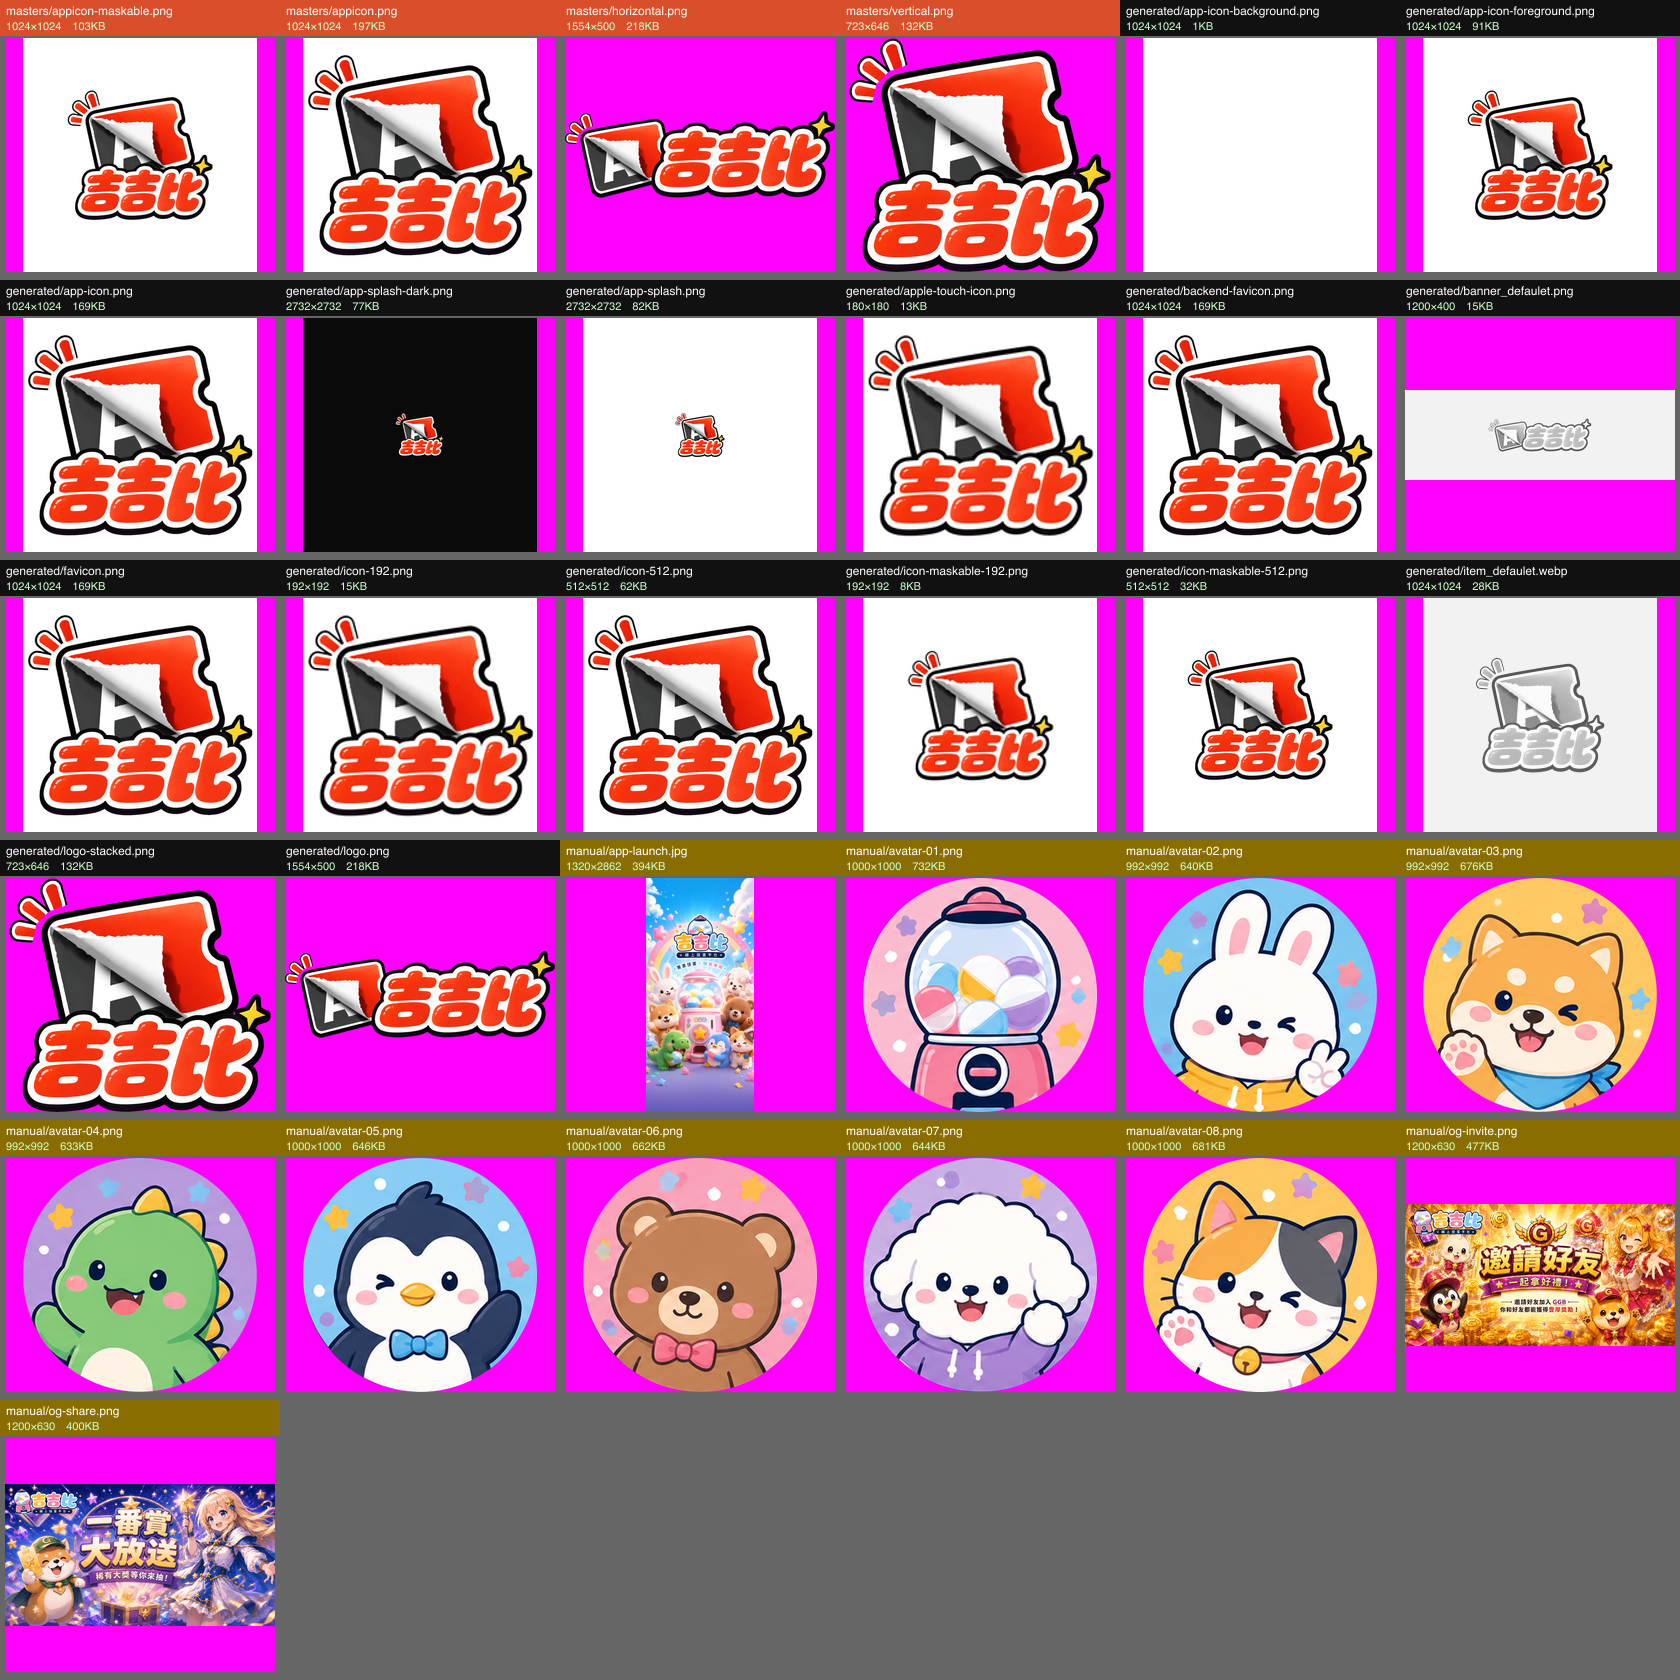
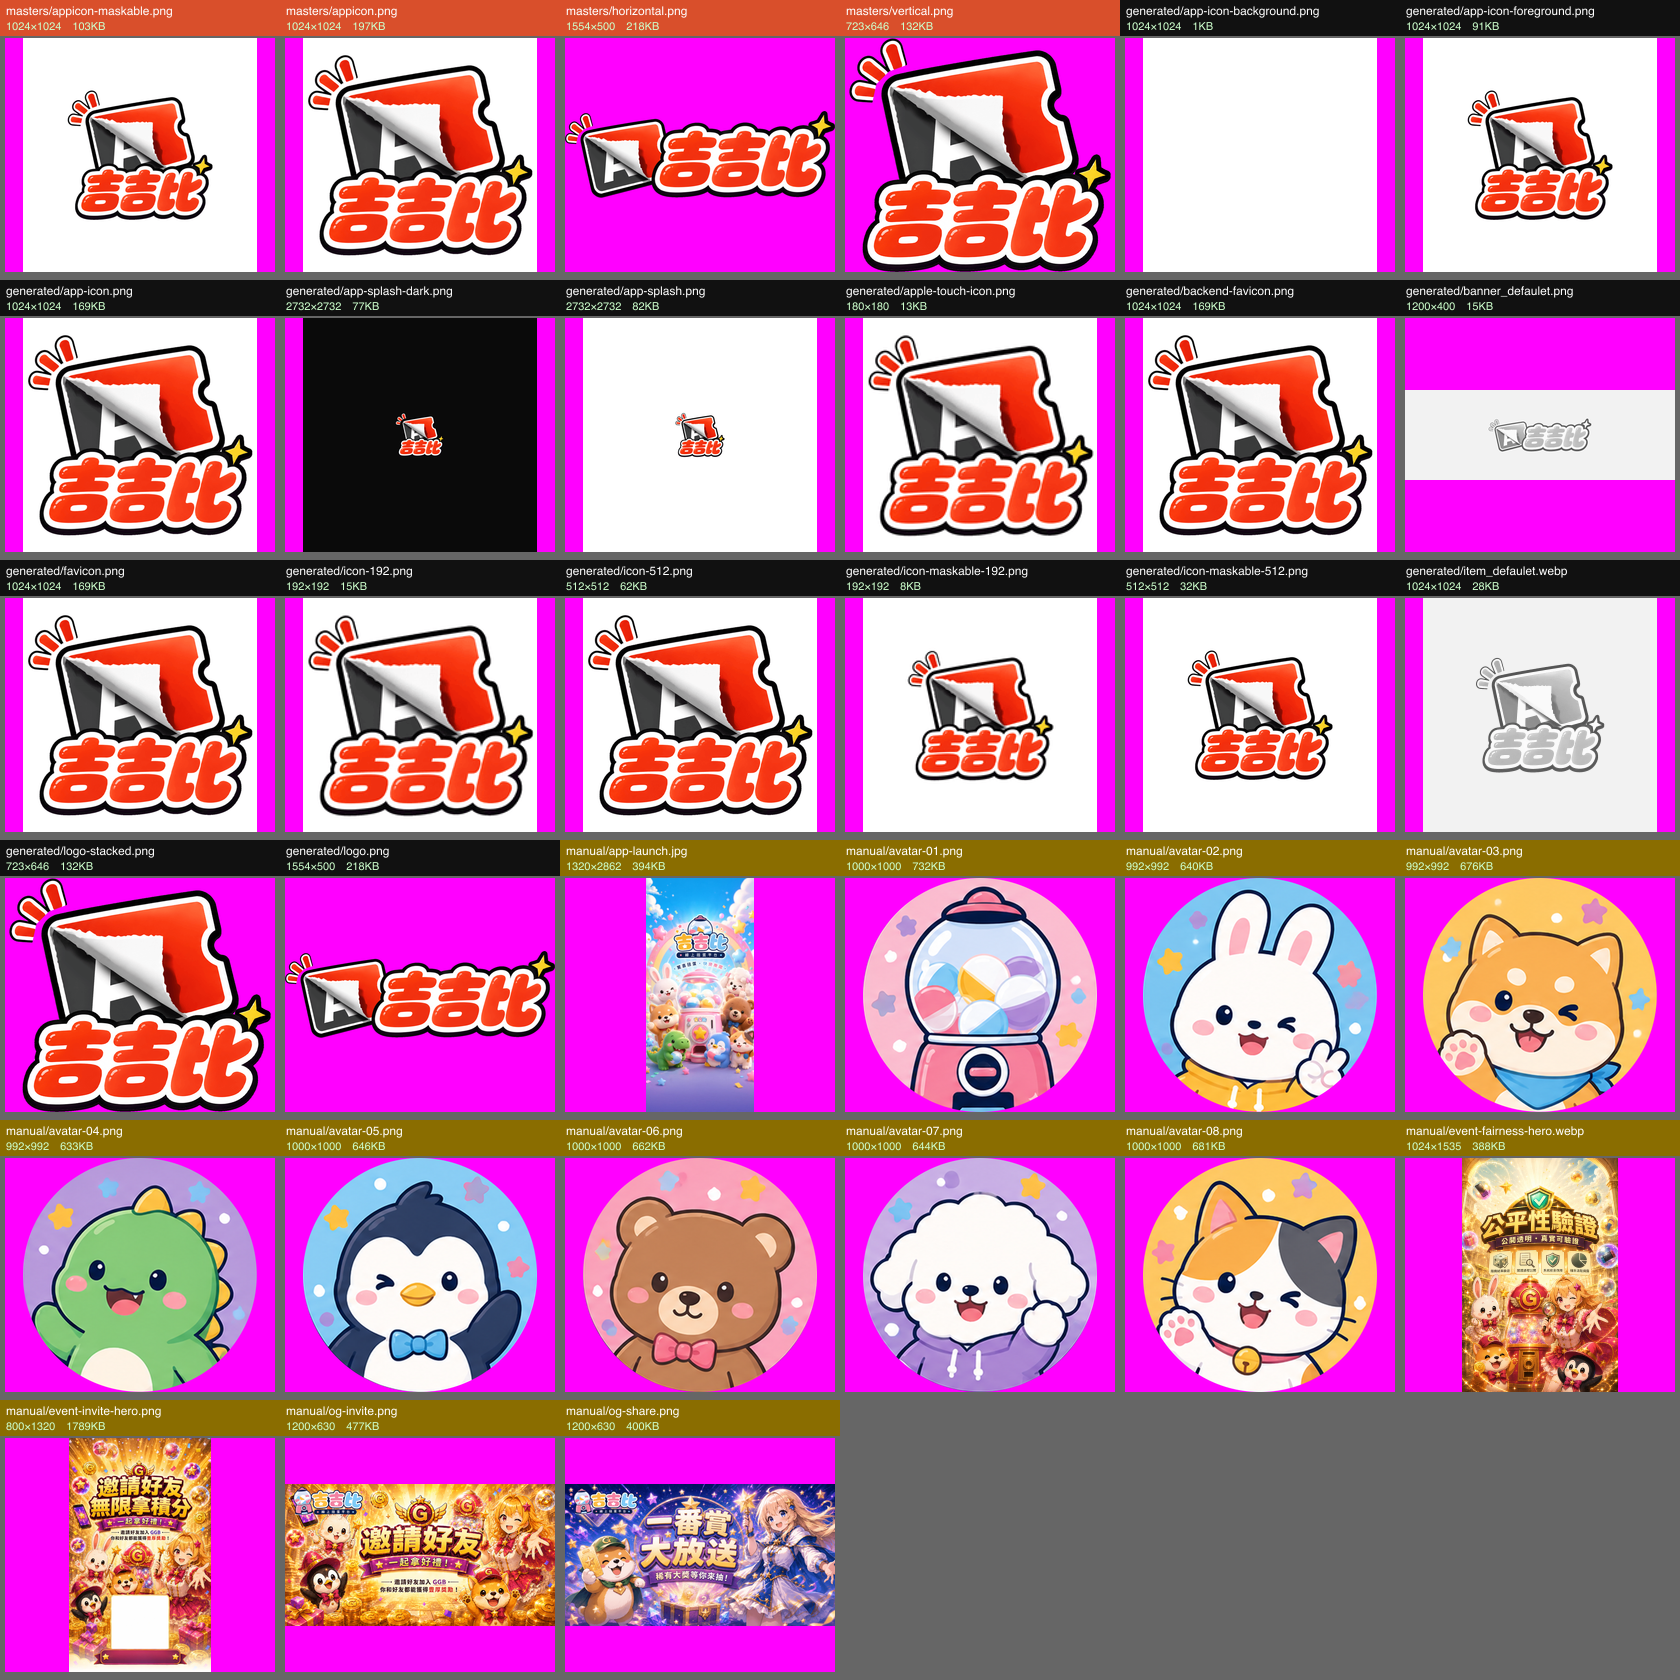
refactor(fairness): 公平性頁從活動頁模組移出改成程式碼常駐頁；兩張常駐頁 hero 進 brand/
老闆：公平性頁與邀請好友頁沒問題的話是永久的，不該待在「活動頁管理」裡，
要改就透過 Claude 改。

它確實不是檔期活動 —— 不會下架、不會換檔，內容是對玩家的公平性承諾，由 FAQ、
服務條款、退換貨與首頁底部警語列指過來。放在 CMS 裡的代價是到處要開特例：
後端刪除 API 回 403、後台列表隱藏刪除鍵、清全站資料要寫 WHERE slug <> 'fairness'。
三個特例養一頁永遠不會被編輯的內容。

作法是只換資料來源、不重寫版面：LpRenderer 加 preset 參數，給 slug 就照舊打 API、
給 preset 就吃程式碼裡的內容，所以視覺跟改之前一模一樣（已實機截圖確認）。

- 網址刻意不動（/events/fairness）。靜態路徑優先於 [slug]，且 Navbar 在 /events/
  底下會自己隱藏（LP 有自己的返回與分享列）。搬到 /fairness 要同時改 Navbar 的
  隱藏清單、處理那段 CMS 化之後就沒作用的 isFairnessPage 死碼，換來的只是網址好看
- 三張說明圖從 R2 搬回本機，常駐頁不該依賴 CMS 上傳出來的網址
- 三個特例全部移除，清資料改回 DELETE FROM events（migration 288 同步更新）
- DB 那筆刪掉（migration 635，PROD／STG 已套用）
- 刪掉 images/fairness/01–03.webp，程式碼 0 處、DB 0 處引用，594KB 死重

brand/manual/ 收進兩張常駐頁 hero。邀請那張用老闆放在 public/ 的 PNG 原檔當母版
（1.8MB，沒有程式引用，頁面吃的是 webp），移進 brand/manual/ 後由 sync 產 webp。
webp 品質改成可逐項指定：頭像顯示只有 40–100px，q80 夠用；滿版 hero 是大面積漸層
插畫，q80 看得出色帶，改 q88（實測離 PNG 原檔的色差比原本 repo 裡那張還小）。

Changed region(s): [[0.0, 0.8357, 0.5262, 1.0], [0.8357, 0.65, 1.0, 0.8357]]

diff --git a/frontend/app/events/fairness/content.tsx b/frontend/app/events/fairness/content.tsx
@@ -1,0 +1,109 @@
+'use client'
+
+import LpRenderer, { type LpPreset } from '@/components/lp/LpRenderer'
+import { asset } from '@/lib/asset'
+
+/**
+ * 抽獎公平性說明頁 —— 常駐頁，內容寫在程式碼裡，不進後台「活動頁管理」。
+ *
+ * 2026-08-28 之前這頁是後台活動頁模組的一筆資料（events.slug = 'fairness'）。
+ * 但它不是檔期活動：不會下架、不會換檔、內容是對玩家的公平性承諾，
+ * 由 FAQ、服務條款、退換貨三頁與首頁底部警語列指過來。放在 CMS 裡的代價是
+ * 到處要為它開特例 —— 後端刪除 API 回 403、後台列表隱藏刪除鍵、清全站資料的
+ * 腳本要寫 `WHERE slug <> 'fairness'`。三個特例養一頁永遠不會被編輯的內容。
+ *
+ * 改成程式碼之後：那三個特例全部拿掉，改動進 git 有版本可回溯，
+ * 清資料腳本直接 `DELETE FROM events` 不必留例外。要改內容就改這個檔案。
+ *
+ * 視覺完全沿用活動頁模組（`LpRenderer`），所以跟改之前長得一模一樣 ——
+ * 這裡換掉的只有「資料從哪來」，沒有重寫任何版面。
+ */
+const FAIRNESS: LpPreset = {
+  event: {
+    slug: 'fairness',
+    title: '抽獎公平性',
+    bg_color: '#0a0610',
+    accent_color: '#2ecc71',
+    theme_mode: 'dark',
+    hero_mode: 'dark',
+    is_active: true,
+    start_at: null,
+    end_at: null,
+    linked_category_id: null,
+  },
+  sections: [
+    {
+      type: 'hero',
+      sort_order: 0,
+      content: {
+        bare: true,
+        bg_image_url: asset('/images/fairness/hero2.webp'),
+        cta_text: '立即開抽',
+        cta_url: '/',
+      },
+    },
+    {
+      type: 'text',
+      sort_order: 1,
+      content: {
+        h2: '驗證碼是什麼',
+        body:
+          '把整檔的開獎表想成一份名單，驗證碼就是這份名單的**指紋**（技術上叫 SHA-256 雜湊）。\n\n' +
+          '它有兩個特性：**同一份名單永遠算出同一組指紋**；**名單只要改動一個字，指紋就會完全不同**。\n\n' +
+          '所以我們在**開賣時就先把指紋公布出來**，等於當眾把名單封進保險箱。這一檔結束後名單公開，' +
+          '你可以**自己拿去算一次** —— 算出來的指紋必須跟開賣那天公布的一模一樣。對得上，代表中間沒被動過；' +
+          '**對不上，代表我們改過東西，而且賴不掉**。',
+      },
+    },
+    {
+      type: 'steps',
+      sort_order: 2,
+      content: {
+        h2: '怎麼運作',
+        steps: [
+          { title: '開賣前先封存', description: '商品一上架，哪個號碼對到哪個獎就**全部排定**，同時公布驗證碼。' },
+          { title: '抽到的都有號碼', description: '每一件收進倉庫時都帶著它的號碼，**那就是你的收據**。' },
+          { title: '完抽後公開對照', description: '這一檔抽完，**開獎表整份公開**。用你的號碼去查，就知道當初排給你的是不是這件。' },
+        ],
+      },
+    },
+    {
+      type: 'gallery',
+      sort_order: 3,
+      content: {
+        h2: '在哪裡看',
+        items: [
+          { url: asset('/images/fairness/gallery-1.webp'), caption: '商品頁', media_type: 'image' },
+          { url: asset('/images/fairness/gallery-2.webp'), caption: '我的倉庫', media_type: 'image' },
+          { url: asset('/images/fairness/gallery-3.webp'), caption: '驗算頁', media_type: 'image' },
+        ],
+        callout: '販售中只看得到驗證碼，**完抽後同一個位置會變成完整的開獎表**。',
+      },
+    },
+    {
+      type: 'text',
+      sort_order: 4,
+      content: {
+        h2: '哪些玩法適用',
+        body:
+          '**一番賞、抽卡、自製賞**採用號碼封存，可以照上面的方式驗算。\n\n' +
+          '**轉蛋與盒玩沒有號碼** —— 它們每一抽都是當下獨立隨機，不存在「開賣前就排好」這回事，' +
+          '因此沒有可以事後比對的開獎表。',
+      },
+    },
+    {
+      type: 'cta',
+      sort_order: 5,
+      content: {
+        h2: '看完就去抽吧',
+        text: '去看看可以抽什麼',
+        url: '/',
+        subtitle: '抽到的東西可以申請寄送，也可以回收成 G 幣。',
+      },
+    },
+  ],
+}
+
+export default function FairnessContent() {
+  return <LpRenderer preset={FAIRNESS} />
+}

diff --git a/frontend/components/lp/LpRenderer.tsx b/frontend/components/lp/LpRenderer.tsx
@@ -58,6 +58,24 @@ interface Section {
   resolved?: { product: { id: number; name: string; type?: string } | null; prizes: Prize[] }
 }
 
+/**
+ * 把 preset 補成跟 API 回傳一樣的形狀。
+ *
+ * 下游有幾處拿 `section.id` 當 React key、`event.id` 做分享網址，
+ * 少了會是 undefined key（同型別區塊重複時 React 會警告並可能錯位重用 DOM）。
+ * 這裡用 slug + 索引補齊，preset 是靜態的，值穩定不會跳動。
+ */
+function normalizePreset(p: LpPreset): { event: EventData; sections: Section[] } {
+  return {
+    event: { ...p.event, id: p.event.id ?? `preset-${p.event.slug}` } as EventData,
+    sections: p.sections.map((s, i) => ({
+      ...s,
+      id: s.id ?? `${p.event.slug}-${i}`,
+      sort_order: s.sort_order ?? i,
+    })) as Section[],
+  }
+}
+
 const str = (v: unknown): string => (v as string) ?? ''
 const bool = (v: unknown): boolean => !!(v)
 
@@ -986,15 +1004,36 @@ function RelatedProductsSection({ products }: { products: RelProduct[] }) {
 
 // ─── Main ────────────────────────────────────────────────────────────────────
 
-export default function LpRenderer({ slug }: { slug: string }) {
+/** 從程式碼直接餵進來的頁面資料，給常駐頁用（見下方 `preset`） */
+export type LpPreset = {
+  event: Omit<EventData, 'id'> & { id?: string }
+  sections: Array<Omit<Section, 'id'> & { id?: string }>
+}
+
+/**
+ * 活動頁渲染器。
+ *
+ * 兩種資料來源：
+ *   - `slug`：從 `/api/events/<slug>` 讀，後台「活動頁管理」建的檔期活動走這條
+ *   - `preset`：直接把內容寫在程式碼裡，**常駐頁走這條**（例：抽獎公平性頁）
+ *
+ * 常駐頁為什麼不放後台：它不是檔期活動，不會下架，內容是對玩家的公平性承諾。
+ * 放在 CMS 裡要另外做「不可刪除」的特例（後端 403 + 列表隱藏刪除鍵），
+ * 清資料腳本也得為它開一個 `WHERE slug <> 'fairness'` 的例外 —— 為了一頁永遠不會
+ * 被編輯的內容，在三個地方留特例。寫成程式碼就沒有這些事，改動也留在 git 裡。
+ */
+export default function LpRenderer({ slug, preset }: { slug?: string; preset?: LpPreset }) {
   const router = useRouter()
-  const [data, setData] = useState<{ event: EventData; sections: Section[] } | null>(null)
+  const [data, setData] = useState<{ event: EventData; sections: Section[] } | null>(
+    preset ? normalizePreset(preset) : null
+  )
   const [notFound, setNotFound] = useState(false)
   const [showSticky, setShowSticky] = useState(false)
   const [relProducts, setRelProducts] = useState<RelProduct[]>([])
   const containerRef = useRef<HTMLDivElement>(null)
 
   useEffect(() => {
+    if (preset || !slug) return
     fetch(`/api/events/${slug}`)
       .then(r => { if (!r.ok) throw new Error(); return r.json() })
       .then(d => {
@@ -1007,7 +1046,7 @@ export default function LpRenderer({ slug }: { slug: string }) {
         }
       })
       .catch(() => setNotFound(true))
-  }, [slug])
+  }, [slug, preset])
 
   useEffect(() => {
     const el = containerRef.current

diff --git a/backend/app/api/admin/events/[id]/route.ts b/backend/app/api/admin/events/[id]/route.ts
@@ -41,12 +41,8 @@ export async function DELETE(req: NextRequest, { params }: { params: Promise<{ i
   const admin = await requireAdminSession()
   if (!admin) return NextResponse.json({ error: 'Unauthorized' }, { status: 401 })
   const { id } = await params
-  // 抽獎公平性活動頁（slug='fairness'）不可刪除 —— 它是常駐的公平性說明頁、
-  // 抽獎流程與清資料都依賴它存在（老闆 2026-08-21）
-  const { data: ev } = await getSupabaseAdmin().from('events').select('slug').eq('id', id).maybeSingle()
-  if (ev?.slug === 'fairness') {
-    return NextResponse.json({ error: '抽獎公平性頁為系統常駐頁，不可刪除' }, { status: 403 })
-  }
+  // 2026-08-28 前這裡擋著 slug='fairness' 不給刪。那頁已經改成程式碼裡的常駐頁
+  //（frontend/app/events/fairness/），不再是 events 的一筆資料，守衛跟著拿掉。
   const { error } = await getSupabaseAdmin().from('events').delete().eq('id', id)
   if (error) return NextResponse.json({ error: error.message }, { status: 500 })
   await logAdminAction({ adminId: admin.adminId, action: '刪除活動頁', targetType: 'event', targetId: String(id), detail: { id }, ip: req.headers.get('x-forwarded-for') ?? '' })

diff --git a/frontend/app/events/fairness/page.tsx b/frontend/app/events/fairness/page.tsx
@@ -1,0 +1,20 @@
+import type { Metadata } from 'next'
+import FairnessContent from './content'
+
+/*
+ * 網址刻意留在 /events/fairness：首頁底部警語列、FAQ／服務條款／退換貨的文案
+ * 都指過來，而且 Navbar 在 `/events/` 底下會自己隱藏（LP 有自己的返回與分享列）。
+ * 搬到別的路徑要同時改那幾處並補轉址，換來的只是網址好看一點。
+ *
+ * 靜態路徑優先於同層的 [slug]，所以這個檔案會蓋掉活動頁模組的動態路由。
+ */
+export const metadata: Metadata = {
+  title: '抽獎公平性｜吉吉比',
+  description:
+    '一番賞、抽卡、自製賞在開賣前就把每支籤對應的獎品排定並封存，同時公布驗證碼。完抽後開獎表整份公開，你可以自己算一次核對。',
+  alternates: { canonical: '/events/fairness' },
+}
+
+export default function FairnessPage() {
+  return <FairnessContent />
+}

diff --git a/backend/app/events/page.tsx b/backend/app/events/page.tsx
@@ -337,10 +337,7 @@ export default function EventsPage() {
       render: ev => (
         <div className="flex items-center gap-2">
           <RowAction tone="primary" onClick={() => router.push(`/events/${ev.id}/edit`)}>編輯</RowAction>
-          {/* 抽獎公平性頁是系統常駐頁，不給刪除鍵（後端 API 也擋，見 2026-08-21） */}
-          {ev.slug !== 'fairness' && (
-            <RowAction tone="danger" onClick={() => setDeleteTarget(ev)}>刪除</RowAction>
-          )}
+          <RowAction tone="danger" onClick={() => setDeleteTarget(ev)}>刪除</RowAction>
         </div>
       ),
     },
